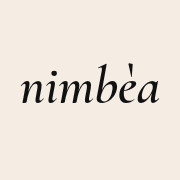
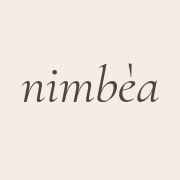
Icone dell'app: «nimbèa» con il carattere e il colore della scritta dell'app (#611)
Erano in Cormorant corsivo semibold (600) nero #111; la schermata iniziale usa Cormorant corsivo
normale (400) con --title-ink, oklch(0.4 0.02 60), un grigio-marrone. Rigenerate con quelli: stessa
larghezza (77%), stesso sfondo, corpo delle lettere alla stessa altezza della versione precedente
(64/78 su 180). Versione cache v11. La favicon delle schede («n» a 16–48 px) resta più marcata,
perché in quel formato un tratto sottile sparirebbe.

Claude-Session: https://claude.ai/code/session_014h6mpT5LYeEg9kQdWqKx26

Changed region(s): [[0.1111, 0.3333, 0.8889, 0.5833]]

diff --git a/src/routes/__root.tsx b/src/routes/__root.tsx
@@ -74,9 +74,9 @@ export const Route = createRootRouteWithContext<{ queryClient: QueryClient }>()(
       { rel: "stylesheet", href: appCss },
       // Installable app (Add to Home Screen) — needed on iPhone for the morning notification.
       { rel: "manifest", href: "/manifest.webmanifest" },
-      { rel: "icon", href: "/favicon.ico?v=10", sizes: "16x16 32x32 48x48" },
-      { rel: "icon", type: "image/png", sizes: "32x32", href: "/favicon-32.png?v=10" },
-      { rel: "apple-touch-icon", href: "/apple-touch-icon.png?v=10" },
+      { rel: "icon", href: "/favicon.ico?v=11", sizes: "16x16 32x32 48x48" },
+      { rel: "icon", type: "image/png", sizes: "32x32", href: "/favicon-32.png?v=11" },
+      { rel: "apple-touch-icon", href: "/apple-touch-icon.png?v=11" },
       { rel: "preconnect", href: "https://fonts.googleapis.com" },
       { rel: "preconnect", href: "https://fonts.gstatic.com", crossOrigin: "" },
       { rel: "stylesheet", href: "https://fonts.googleapis.com/css2?family=Cormorant+Garamond:ital,wght@0,300;0,400;0,500;1,300;1,400&family=Inter:wght@300;400;500;600&display=swap" },
